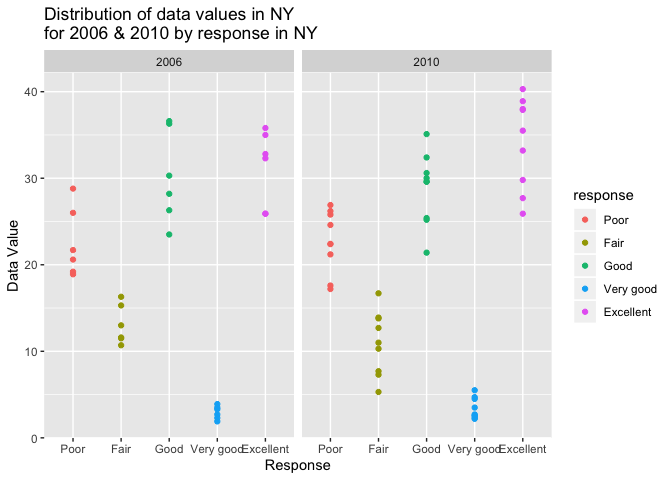
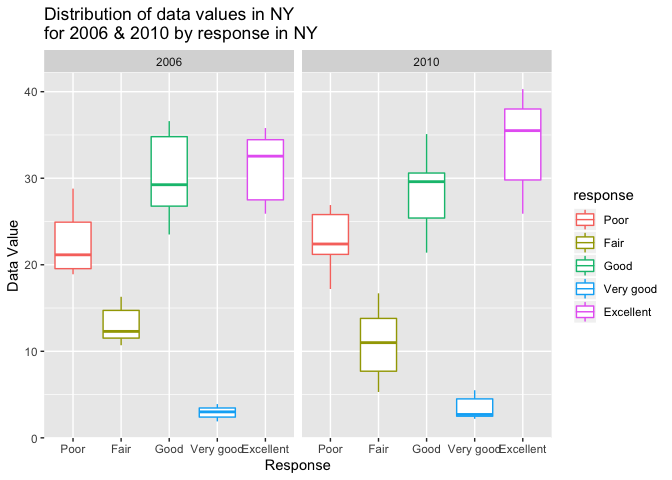
Updated the accelerometer data table and created graph for accelerometer graph. included descriptions

diff --git a/p8105_hw3_blm2156.md b/p8105_hw3_blm2156.md
@@ -8,14 +8,14 @@ Britney Mazzetta - blm2156
 library(tidyverse)
 ```
 
-    ## ── Attaching packages ────────────────────────────── tidyverse 1.2.1 ──
+    ## ── Attaching packages ────────────────────────── tidyverse 1.2.1 ──
 
     ## ✔ ggplot2 3.2.1     ✔ purrr   0.3.2
     ## ✔ tibble  2.1.3     ✔ dplyr   0.8.3
     ## ✔ tidyr   1.0.0     ✔ stringr 1.4.0
     ## ✔ readr   1.3.1     ✔ forcats 0.4.0
 
-    ## ── Conflicts ───────────────────────────────── tidyverse_conflicts() ──
+    ## ── Conflicts ───────────────────────────── tidyverse_conflicts() ──
     ## ✖ dplyr::filter() masks stats::filter()
     ## ✖ dplyr::lag()    masks stats::lag()
 
@@ -644,7 +644,7 @@ two_panel_data = brfss %>%
            year== "2010",
            locationabbr == "NY")
 ggplot(two_panel_data, aes(x = response, y = data_value, color = response)) +
-  geom_point() +
+  geom_boxplot() +
   facet_grid(. ~ year) +
 labs(
     title = "Distribution of data values in NY \nfor 2006 & 2010 by response in NY",
@@ -654,7 +654,32 @@ labs(
 ```
 
 ![](p8105_hw3_blm2156_files/figure-gfm/unnamed-chunk-12-1.png)<!-- -->
-\# Problem 3
+
+``` r
+two_panel_data
+```
+
+    ## # A tibble: 75 x 20
+    ##     year locationabbr locationdesc class topic question response
+    ##    <int> <chr>        <chr>        <chr> <chr> <chr>    <fct>   
+    ##  1  2010 NY           NY - Bronx … Heal… Over… How is … Poor    
+    ##  2  2010 NY           NY - Bronx … Heal… Over… How is … Excelle…
+    ##  3  2010 NY           NY - Bronx … Heal… Over… How is … Good    
+    ##  4  2010 NY           NY - Bronx … Heal… Over… How is … Fair    
+    ##  5  2010 NY           NY - Bronx … Heal… Over… How is … Very go…
+    ##  6  2010 NY           NY - Erie C… Heal… Over… How is … Poor    
+    ##  7  2010 NY           NY - Erie C… Heal… Over… How is … Excelle…
+    ##  8  2010 NY           NY - Erie C… Heal… Over… How is … Good    
+    ##  9  2010 NY           NY - Erie C… Heal… Over… How is … Fair    
+    ## 10  2010 NY           NY - Erie C… Heal… Over… How is … Very go…
+    ## # … with 65 more rows, and 13 more variables: sample_size <int>,
+    ## #   data_value <dbl>, confidence_limit_low <dbl>,
+    ## #   confidence_limit_high <dbl>, display_order <int>,
+    ## #   data_value_unit <chr>, data_value_type <chr>, data_source <chr>,
+    ## #   class_id <chr>, topic_id <chr>, question_id <chr>, respid <chr>,
+    ## #   geo_location <chr>
+
+# Problem 3
 
 ``` r
 prob3 = read_csv("./data/accel_data.csv") %>%
@@ -664,7 +689,7 @@ prob3 = read_csv("./data/accel_data.csv") %>%
     dow = day == "Saturday" | day == "Sunday",
     dow = ifelse( dow == TRUE, "Weekend", "Weekday")
     ) %>%
-  select(week, day, dow, everything(), -day_id)
+  select(week, day, dow, everything())
 ```
 
     ## Parsed with column specification:
@@ -676,7 +701,62 @@ prob3 = read_csv("./data/accel_data.csv") %>%
     ## See spec(...) for full column specifications.
 
 There are 35 observations in this dataset (5 weeks-worth of
-accelerometer information for our subject). There are 1443 in which we
+accelerometer information for our subject). There are 1444 in which we
 have a column for week number, day of the week, weekday vs. weekend, and
 1440 columns indicating each minute’s worth of activity associated with
 the particular day of interest.
+
+``` r
+agg_acc_data = prob3 %>%
+  pivot_longer(activity_1:activity_1440,
+               names_to = "activity_min",
+               values_to = "activity") %>%
+  group_by(day_id, day, week, dow) %>%
+  summarize(daily_activity = sum(activity))
+agg_acc_data
+```
+
+    ## # A tibble: 35 x 5
+    ## # Groups:   day_id, day, week [35]
+    ##    day_id day        week dow     daily_activity
+    ##     <dbl> <fct>     <dbl> <chr>            <dbl>
+    ##  1      1 Monday        1 Weekday        480543.
+    ##  2      2 Tuesday       1 Weekday         78828.
+    ##  3      3 Wednesday     1 Weekday        376254 
+    ##  4      4 Thursday      1 Weekday        631105 
+    ##  5      5 Friday        1 Weekday        355924.
+    ##  6      6 Saturday      1 Weekend        307094.
+    ##  7      7 Sunday        1 Weekend        340115.
+    ##  8      8 Monday        2 Weekday        568839 
+    ##  9      9 Tuesday       2 Weekday        295431 
+    ## 10     10 Wednesday     2 Weekday        607175 
+    ## # … with 25 more rows
+
+There do not appear to be any apparent trends. The daily activity
+appears to be quite high for most days. There are 2 Wednesdays that
+produced a daily activity value of 1440, which seems a bit odd.
+
+``` r
+plot_agg_acc = agg_acc_data %>%
+  ggplot(aes(x = day_id, y = daily_activity, color = day)) +
+  geom_point() +
+  geom_line () +
+  labs(
+    title = "Activity over course of day",
+    x = "Day_id",
+    y = "Total Activity Time"
+  )
+plot_agg_acc
+```
+
+![](p8105_hw3_blm2156_files/figure-gfm/unnamed-chunk-15-1.png)<!-- -->
+This graph does not appear to have any apparent trends. It appears as
+though as time throughout the month went on, there was less activity on
+the subsequent Wednesdays and Thursdays after the first 10-15 days. At
+around day 24, there appears to be no/minimal activity for Wednesdays.
+Most days did not have an increase in activity over the course of the
+month; although Fridays had a slight increase in activity. Saturdays and
+Sundays appeared to be most consistent throughout the period of the
+month. There doesn’t appear to be any consistencies when looking at this
+graph per consecutive days - this could be a good indication of a
+still-prevalent congestive heart failure problem in this individual.
